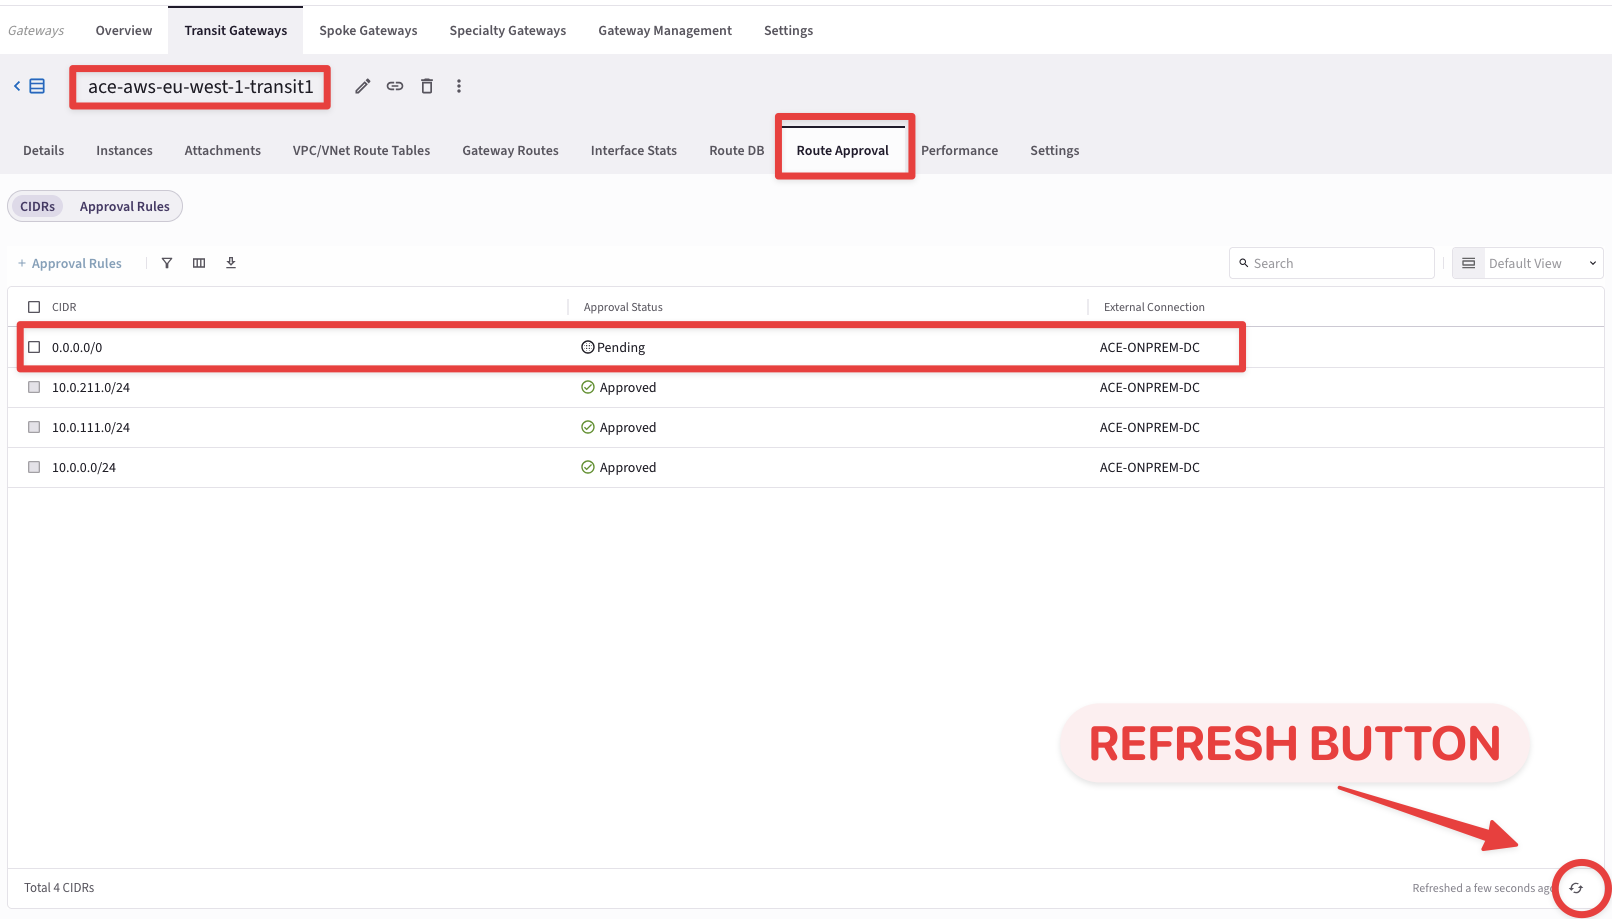
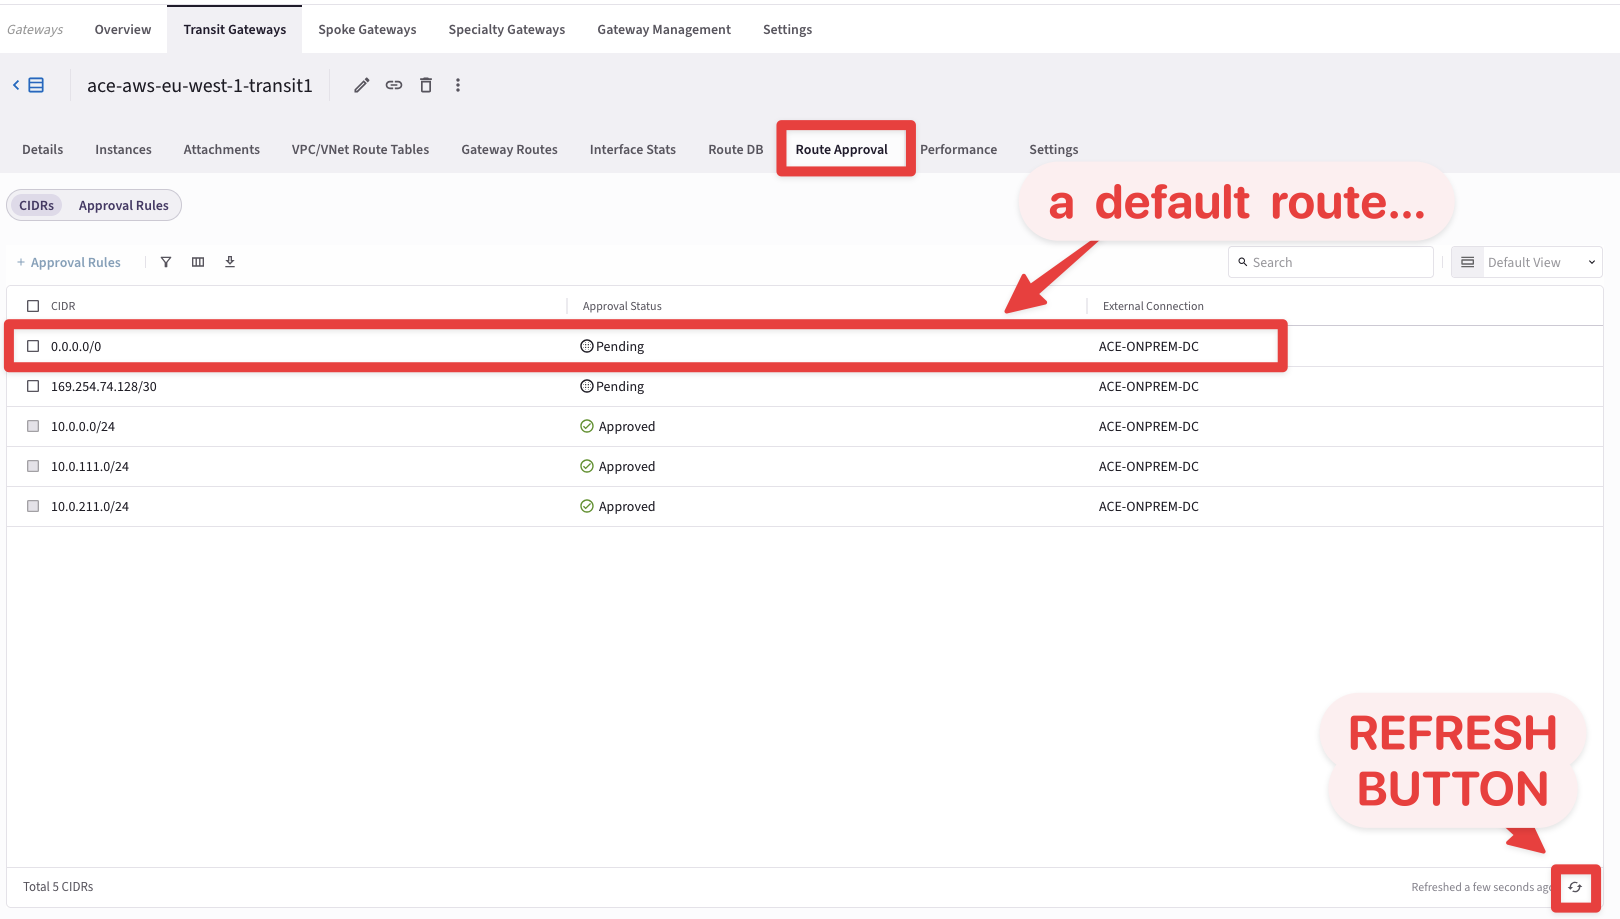
update for ops

diff --git a/ace_ops/docs/lab6.md b/ace_ops/docs/lab6.md
@@ -51,6 +51,28 @@ Communicate your POD number
 
 - Navigate to **CoPilot > Cloud Fabric > Gateways > Transit Gateways >** select the *ace-aws-eu-west-1-transit1* GW and then the **Route Approval** tab.
 
+You’ll immediately notice three CIDRs already approved:
+
+- 10.0.0.0/24  
+
+- 10.0.111.0/24  
+
+- 10.0.211.0/24
+
+And one CIDR in a pending state:
+
+- 169.254.74.128/30
+
+Keep clicking Refresh—a new CIDR should appear shortly.
+
+```{figure} images/lab6-pending000.png
+---
+height: 400px
+align: center
+---
+Existing CIDRs
+```
+
 ```{note}
 Please wait approximately **one or two minutes** for BGP to send the Update. Then, click the <span style='color:orange'>**refresh button**</span> to see the default route being advertised from the Data Center.
 
@@ -68,7 +90,7 @@ Refresh
 ```
 
 ```{caution}
-**Do not approve the route yourself**. If you accidentally approve it, you can click "Delete" to revert it back to the Pending status.
+**Do not approve the default route**. If you accidentally approve it, you can click "Discard" to revert it to Pending.
 ```
 
 ```{important}

diff --git a/ace_ops/docs/lab4.md b/ace_ops/docs/lab4.md
@@ -139,9 +139,11 @@ The FW is UP
 ```
 
 ```{note}
-This time the FW is responding properly to the **Health Check** mechanism, therefore we can't blame the Security Team.
+This time, the firewall is responding correctly to the **health-check** mechanism, so the issue does not appear to be on the Security team’s side.
 
-The Firewall is reachable from the Transit FireNet GW!
+The firewall is reachable from the Transit FireNet gateway.
+
+
 ```
 
 #### 2.5.1 Connectivity test Using the Diagnostic Tools
